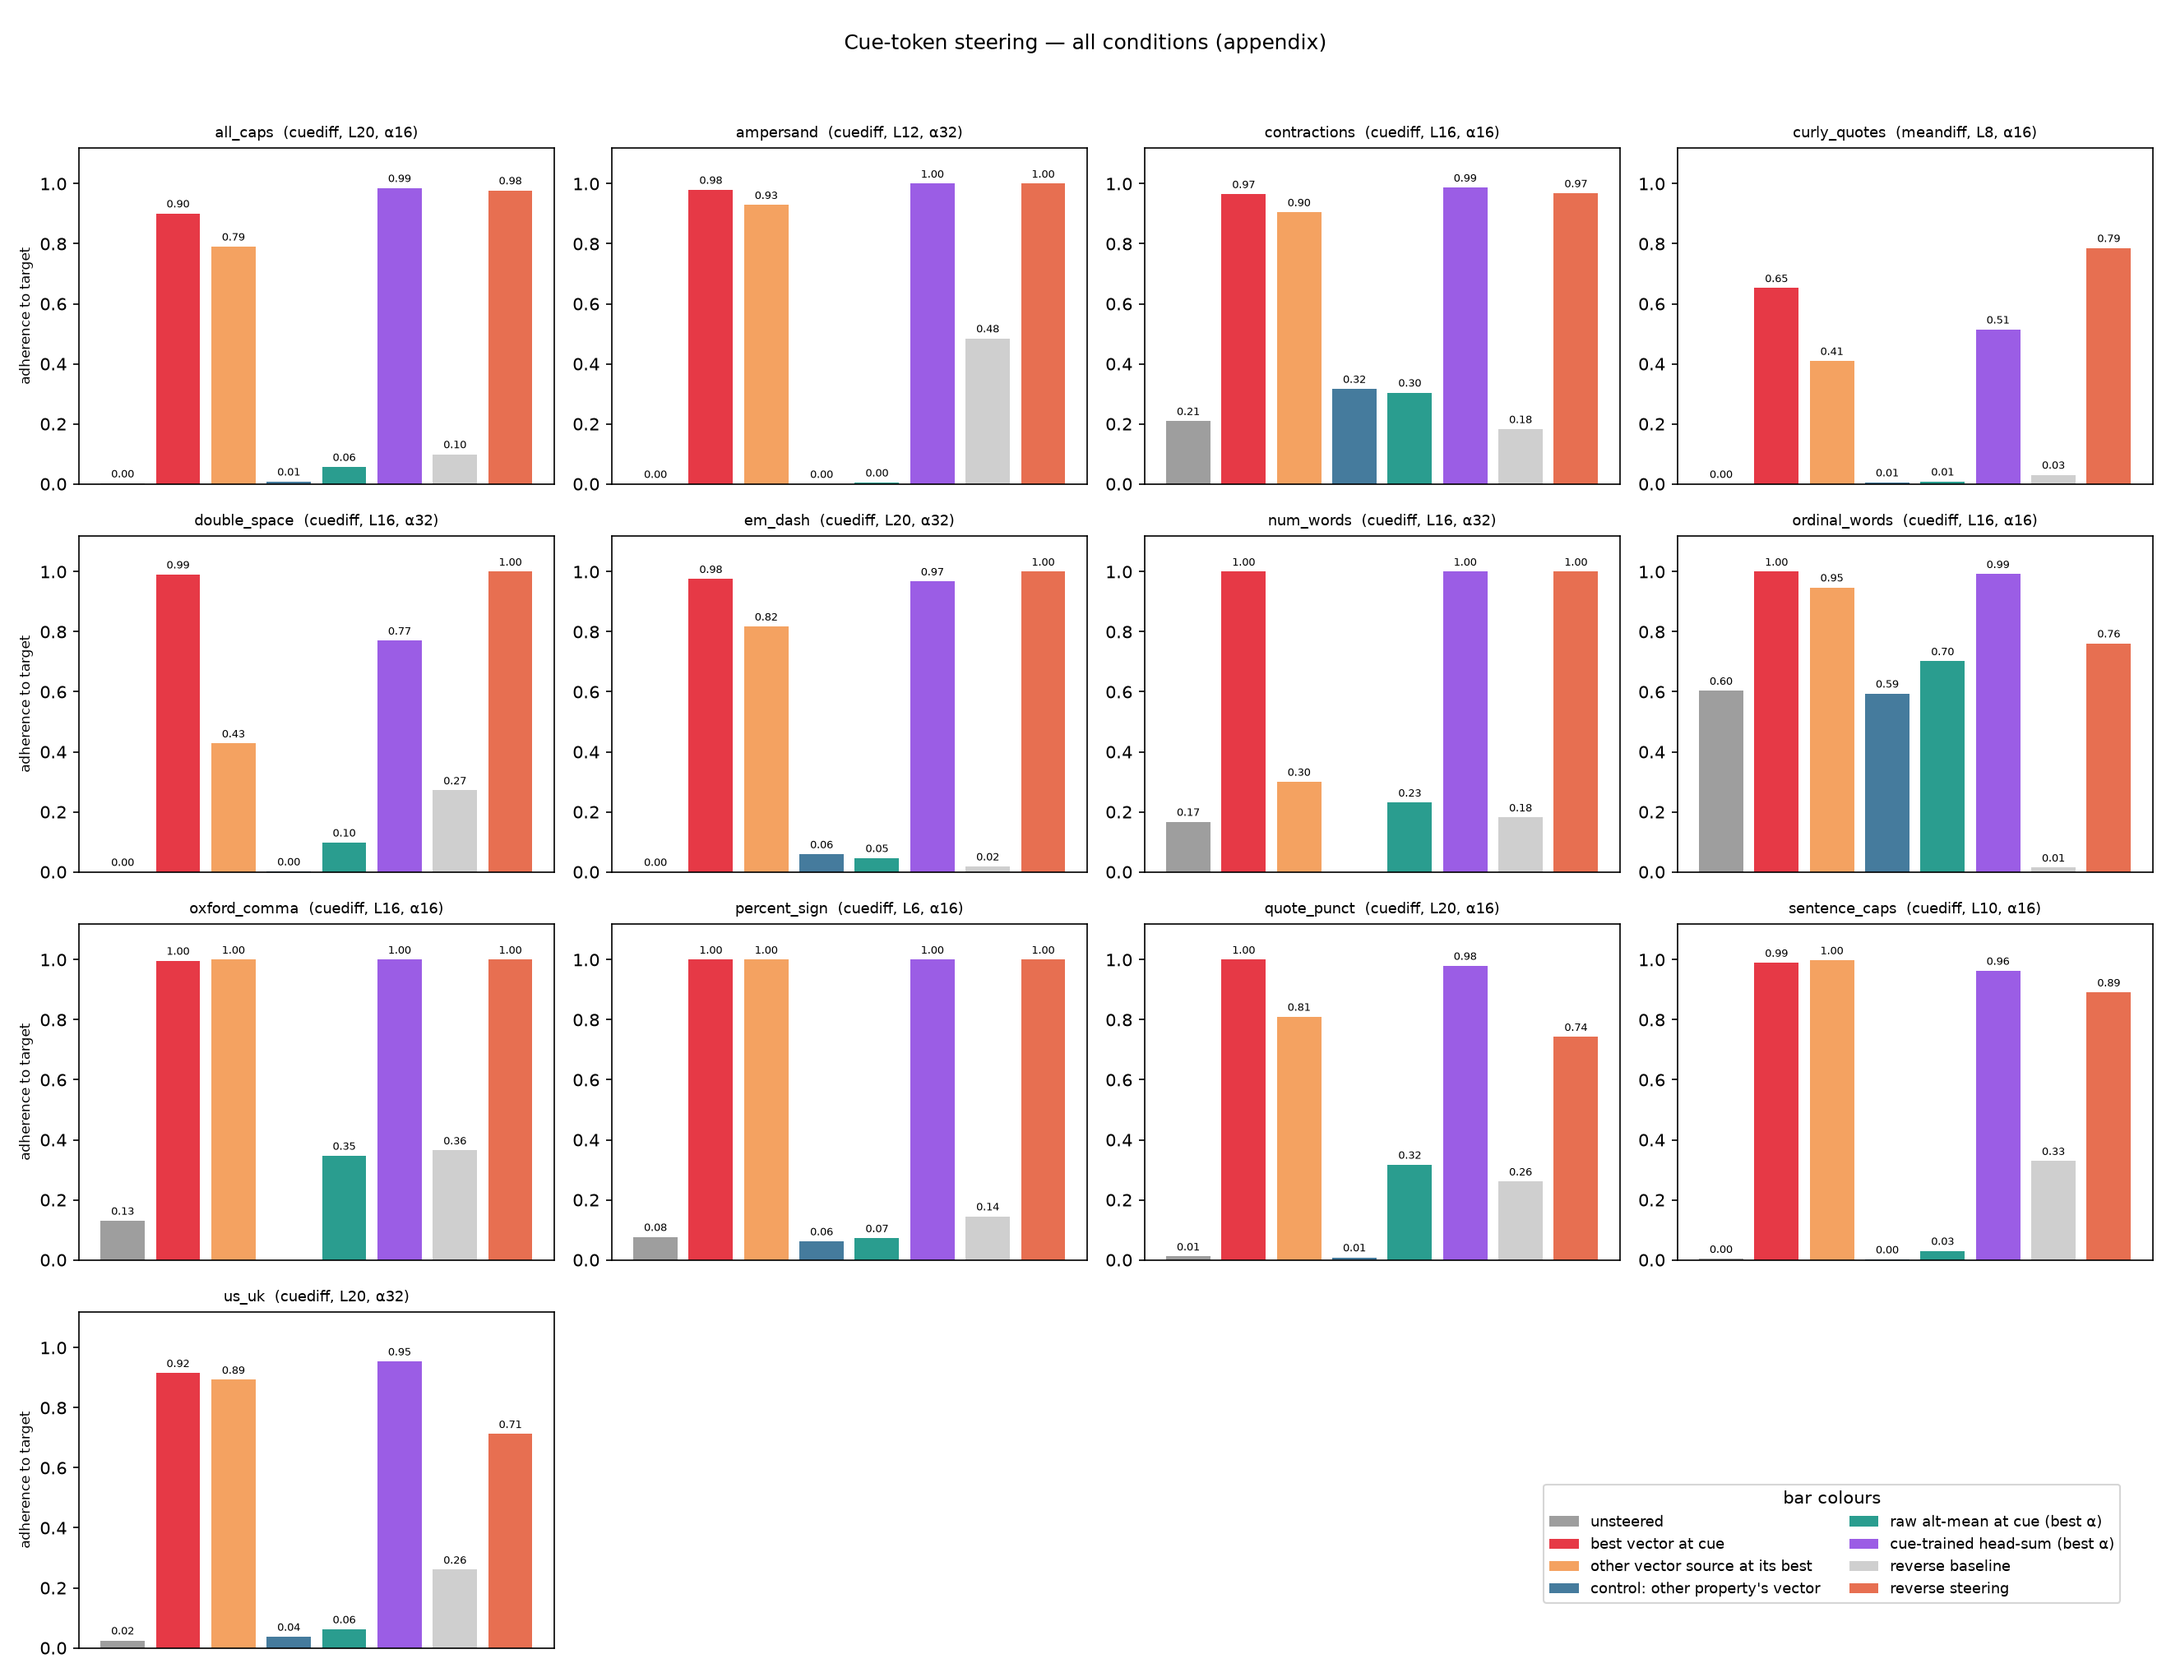
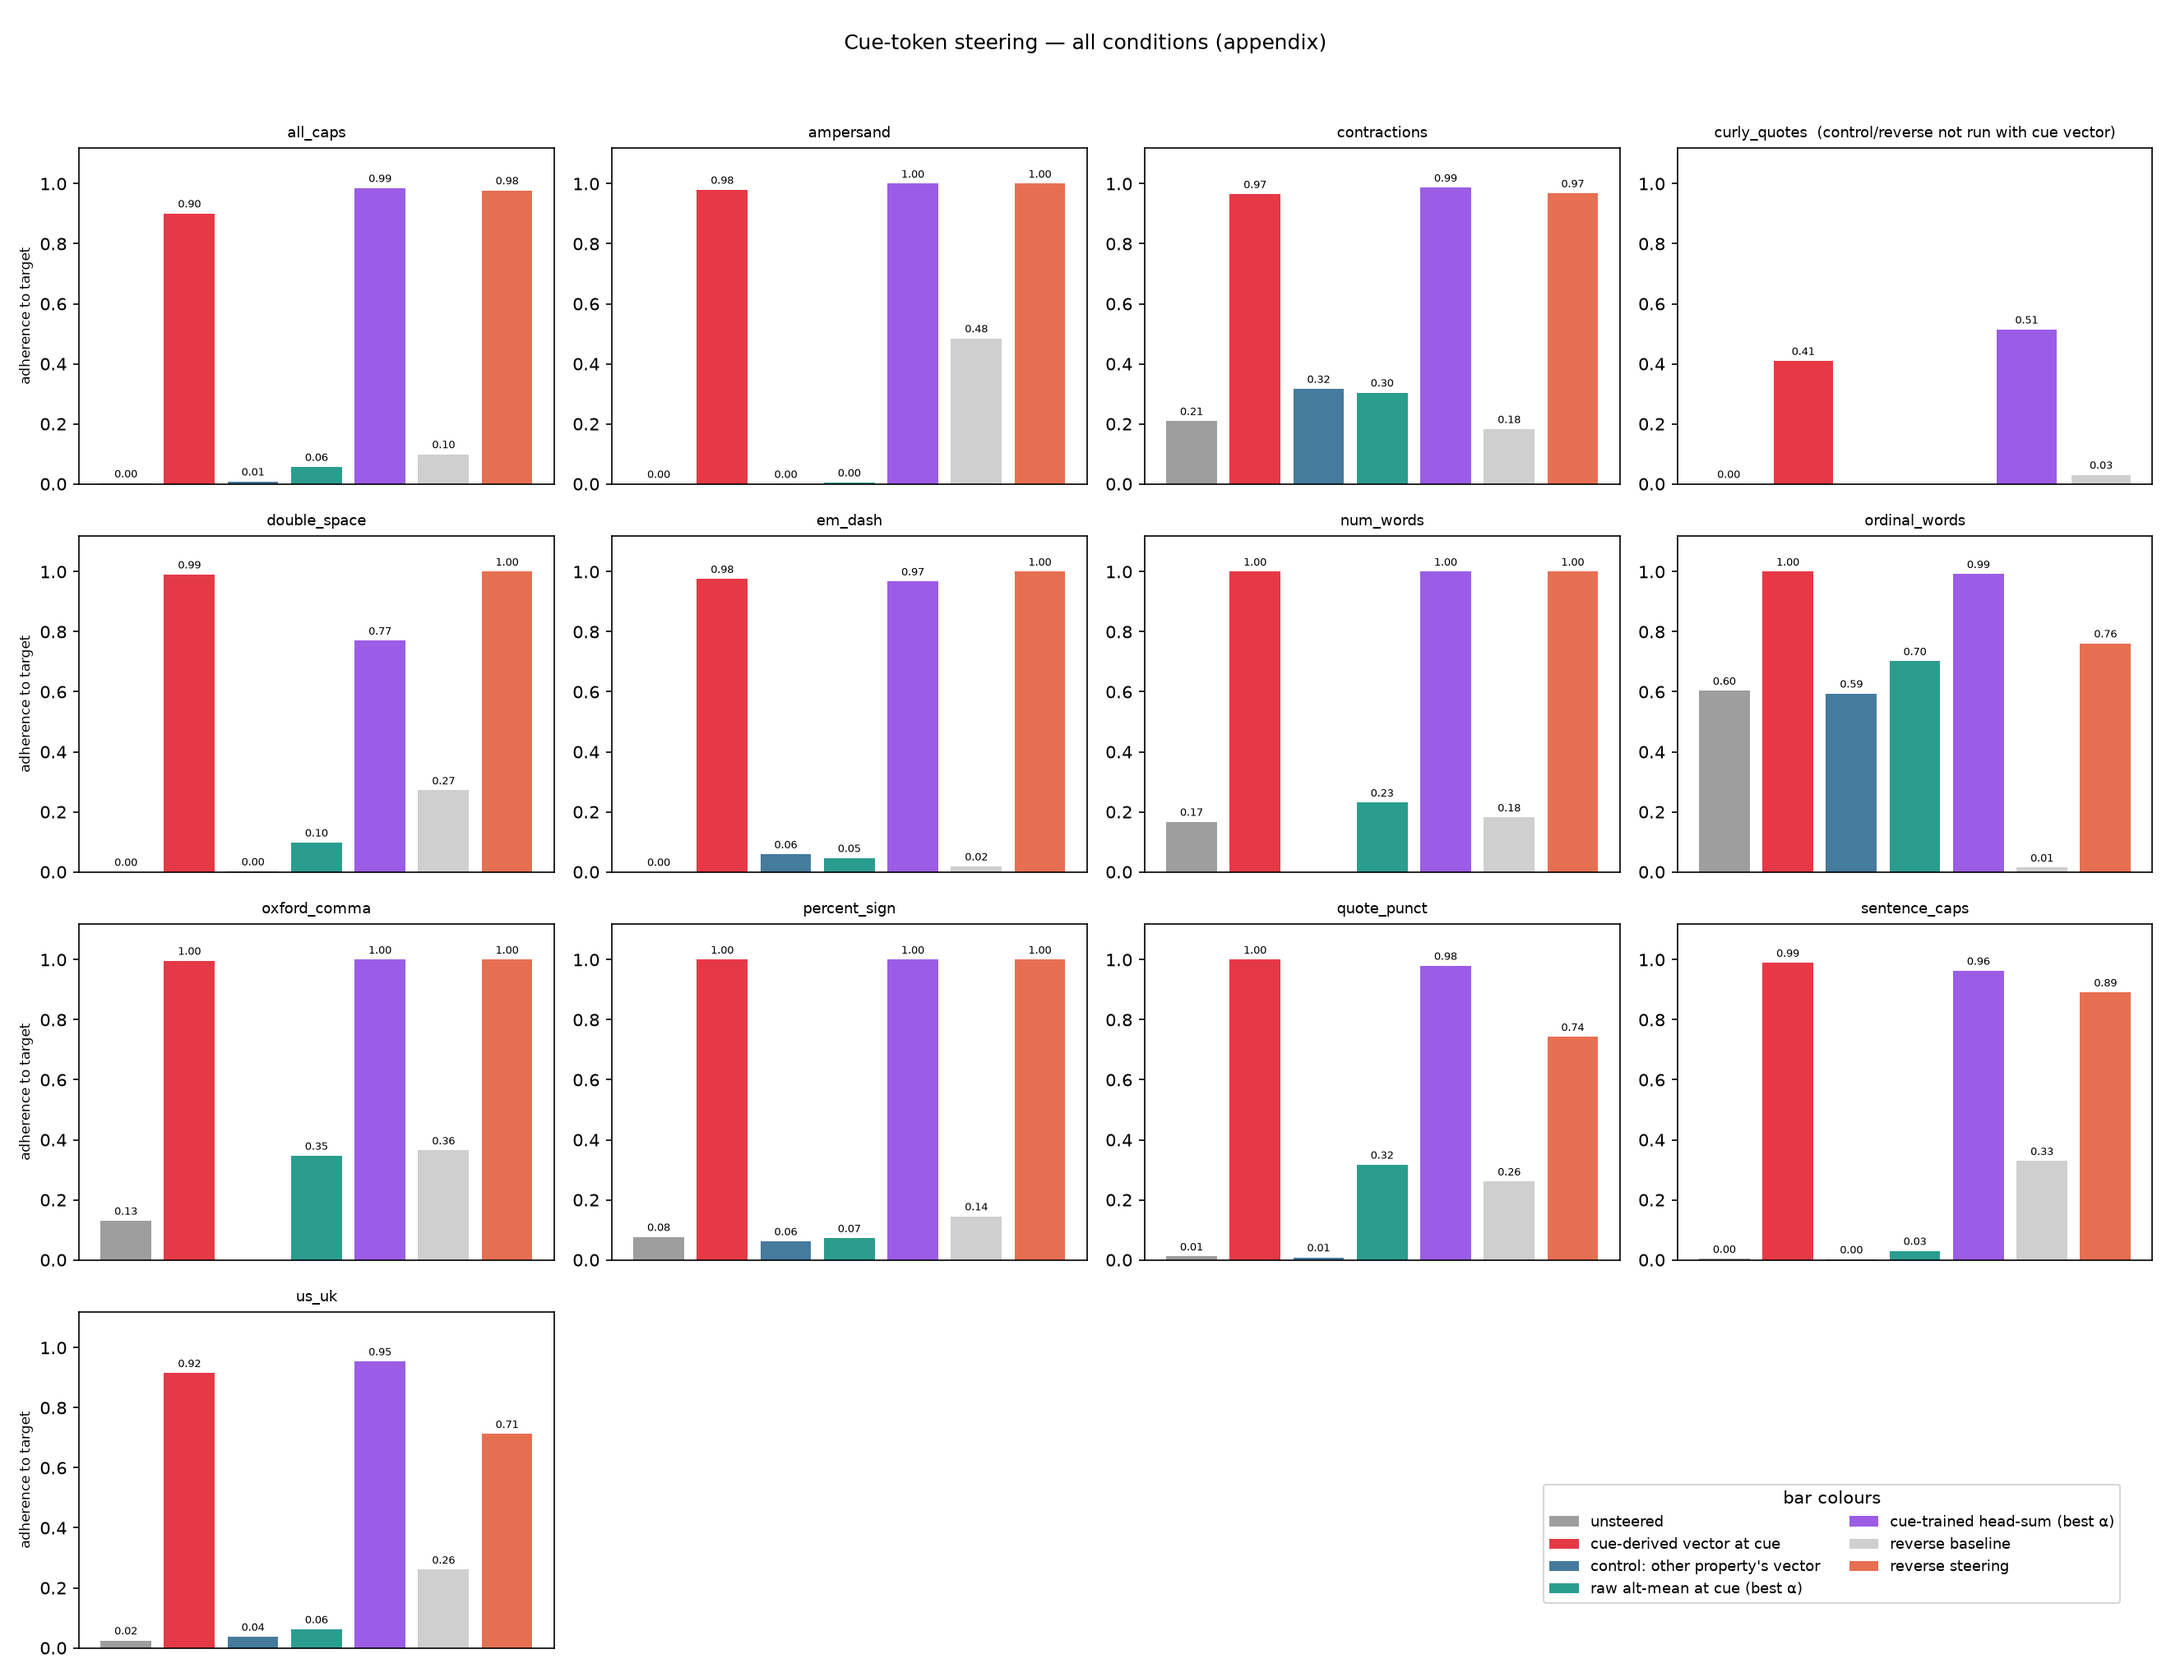
cue steering figures: cue-derived vector only (drop evidence-derived comparisons)

diff --git a/src/sandbox/ext_styleprops/plot_steering_cue.py b/src/sandbox/ext_styleprops/plot_steering_cue.py
@@ -49,7 +49,17 @@ def main():
     for name in props:
         fl = json.load(open(STEER / "full_cue" / f"{name}.json"))
         c, b = fl["conditions"], fl["best_from_sweep"]
-        steered_key = f"{b['vector']}_cue_nat2alt"
+        # cue-derived vector only (user decision); if the sweep's overall best was the
+        # evidence-derived vector, the cue-derived one was run at ITS best setting
+        if b["vector"] != "cuediff":
+            sw = json.load(open(STEER / "sweep_cue" / f"{name}.json"))["conditions"]
+            cb = max((k for k in sw if k.startswith("cuediff") and not np.isnan(sw[k]["adherence_tgt"])),
+                     key=lambda k: sw[k]["adherence_tgt"])
+            b = {"vector": "cuediff", "L": int(cb.split("_L")[1].split("_")[0]),
+                 "alpha": float(cb.split("_a")[1])}
+            steered_key = "cuediff_cue_nat2alt_best"
+        else:
+            steered_key = "cuediff_cue_nat2alt"
         recs = json.load(open(PRE / f"{name}.json"))["records"]
         ref = [r for r in recs if r["pol"] == "alt" and r["k"] >= 4 and r["label"]]
         ref_v = float(np.mean([r["label"] == "alt" for r in ref])) if ref else np.nan
@@ -65,7 +75,7 @@ def main():
     x = np.arange(len(trip)); w = 0.27
     ax.bar(x - w, [t[1] for t in trip], w, color="#bdbdbd", label="unsteered (standard-convention text)")
     ax.bar(x, [t[2] for t in trip], w, color="#e63946",
-           label="steered: property vector added at the CUE token only")
+           label="steered: cue-derived property vector added at the CUE token only")
     ax.bar(x + w, [t[3] for t in trip], w, color="#457b9d",
            label="reference: model reading genuine ALT-convention context (k ≥ 4)")
     for xi, t in zip(x, trip):
@@ -87,11 +97,9 @@ def main():
     for pi, name in enumerate(props):
         sw = json.load(open(STEER / "sweep_cue" / f"{name}.json"))["conditions"]
         ax = axes[pi // ncol][pi % ncol]
-        for vsrc, ls in (("cuediff", "-"), ("meandiff", "--")):
-            for a in ALPHAS:
-                ys = [sw.get(f"{vsrc}_cue_L{L}_a{a}", {}).get("adherence_tgt", np.nan) for L in LAYERS]
-                ax.plot(LAYERS, ys, ls, marker="o" if vsrc == "cuediff" else None, ms=3, lw=1.3,
-                        color=ACOL[a], label=f"α={a:g}" if vsrc == "cuediff" else None)
+        for a in ALPHAS:
+            ys = [sw.get(f"cuediff_cue_L{L}_a{a}", {}).get("adherence_tgt", np.nan) for L in LAYERS]
+            ax.plot(LAYERS, ys, "-", marker="o", ms=3, lw=1.3, color=ACOL[a], label=f"α={a:g}")
         ax.axhline(sw["baseline_nat2alt"]["adherence_tgt"], color="#888", ls=":", lw=1, label="unsteered")
         ax.set_title(name, fontsize=10, fontweight="bold")
         ax.set_ylim(-0.03, 1.03); ax.set_xticks(LAYERS); ax.tick_params(labelsize=7); ax.grid(alpha=0.25)
@@ -103,15 +111,14 @@ def main():
         axes[k // ncol][k % ncol].axis("off")
     h, l = axes[0][0].get_legend_handles_labels()
     fig.legend(h, l, loc="lower right", bbox_to_anchor=(0.97, 0.05), fontsize=9,
-               title="dose α — solid: cue-derived vector, dashed: evidence-derived vector")
-    fig.suptitle("Cue-token steering by injection layer (vector added at the cue token only)", fontsize=12)
+               title="dose α (× cue-derived vector)")
+    fig.suptitle("Cue-token steering by injection layer (cue-derived vector added at the cue token only)", fontsize=12)
     fig.tight_layout(rect=(0, 0, 1, 0.96))
     fig.savefig(OUT / "steering_by_layer_cue.png", dpi=150)
 
     # ---- appendix: all cue-site conditions
     show = [("baseline_nat2alt", "unsteered", "#9e9e9e"),
-            ("BEST", "best vector at cue", "#e63946"),
-            ("OTHER", "other vector source at its best", "#f4a261"),
+            ("BEST", "cue-derived vector at cue", "#e63946"),
             ("CF", "control: other property's vector", "#457b9d"),
             ("RAW", "raw alt-mean at cue (best α)", "#2a9d8f"),
             ("HS", "cue-trained head-sum (best α)", "#9b5de5"),
@@ -123,20 +130,21 @@ def main():
         def best_of(prefix):
             ks = [k for k in c if k.startswith(prefix)]
             return max((c[k]["adherence_tgt"] for k in ks), default=np.nan)
+        cue_based = vs == "cuediff"
         vals = {"baseline_nat2alt": c["baseline_nat2alt"]["adherence_tgt"],
-                "BEST": c[f"{vs}_cue_nat2alt"]["adherence_tgt"],
-                "OTHER": best_of(("meandiff" if vs == "cuediff" else "cuediff") + "_cue_nat2alt_best"),
-                "CF": c["cfprop_cue_nat2alt"]["adherence_tgt"],
-                "RAW": best_of("rawalt"), "HS": best_of("headsum"),
+                "BEST": c["cuediff_cue_nat2alt"]["adherence_tgt"] if cue_based
+                        else best_of("cuediff_cue_nat2alt_best"),
+                "CF": c["cfprop_cue_nat2alt"]["adherence_tgt"] if cue_based else np.nan,
+                "RAW": best_of("rawalt_cue") if cue_based else np.nan, "HS": best_of("headsum"),
                 "baseline_alt2nat": c["baseline_alt2nat"]["adherence_tgt"],
-                "REV": c[f"{vs}_cue_alt2nat"]["adherence_tgt"]}
+                "REV": c["cuediff_cue_alt2nat"]["adherence_tgt"] if cue_based else np.nan}
         ax = axes[pi // ncol][pi % ncol]
         for i, (k, lab, col) in enumerate(show):
             v = vals[k]
             if not np.isnan(v):
                 ax.bar(i, v, color=col); ax.text(i, v + 0.02, f"{v:.2f}", ha="center", fontsize=6)
         ax.set_xticks([]); ax.set_ylim(0, 1.12)
-        ax.set_title(f"{name}  ({vs}, L{fl['best_from_sweep']['L']}, α{fl['best_from_sweep']['alpha']:g})", fontsize=8.5)
+        ax.set_title(name + ("" if cue_based else "  (control/reverse not run with cue vector)"), fontsize=8.5)
         if pi % ncol == 0:
             ax.set_ylabel("adherence to target", fontsize=8)
     for k in range(n, nrow * ncol):
